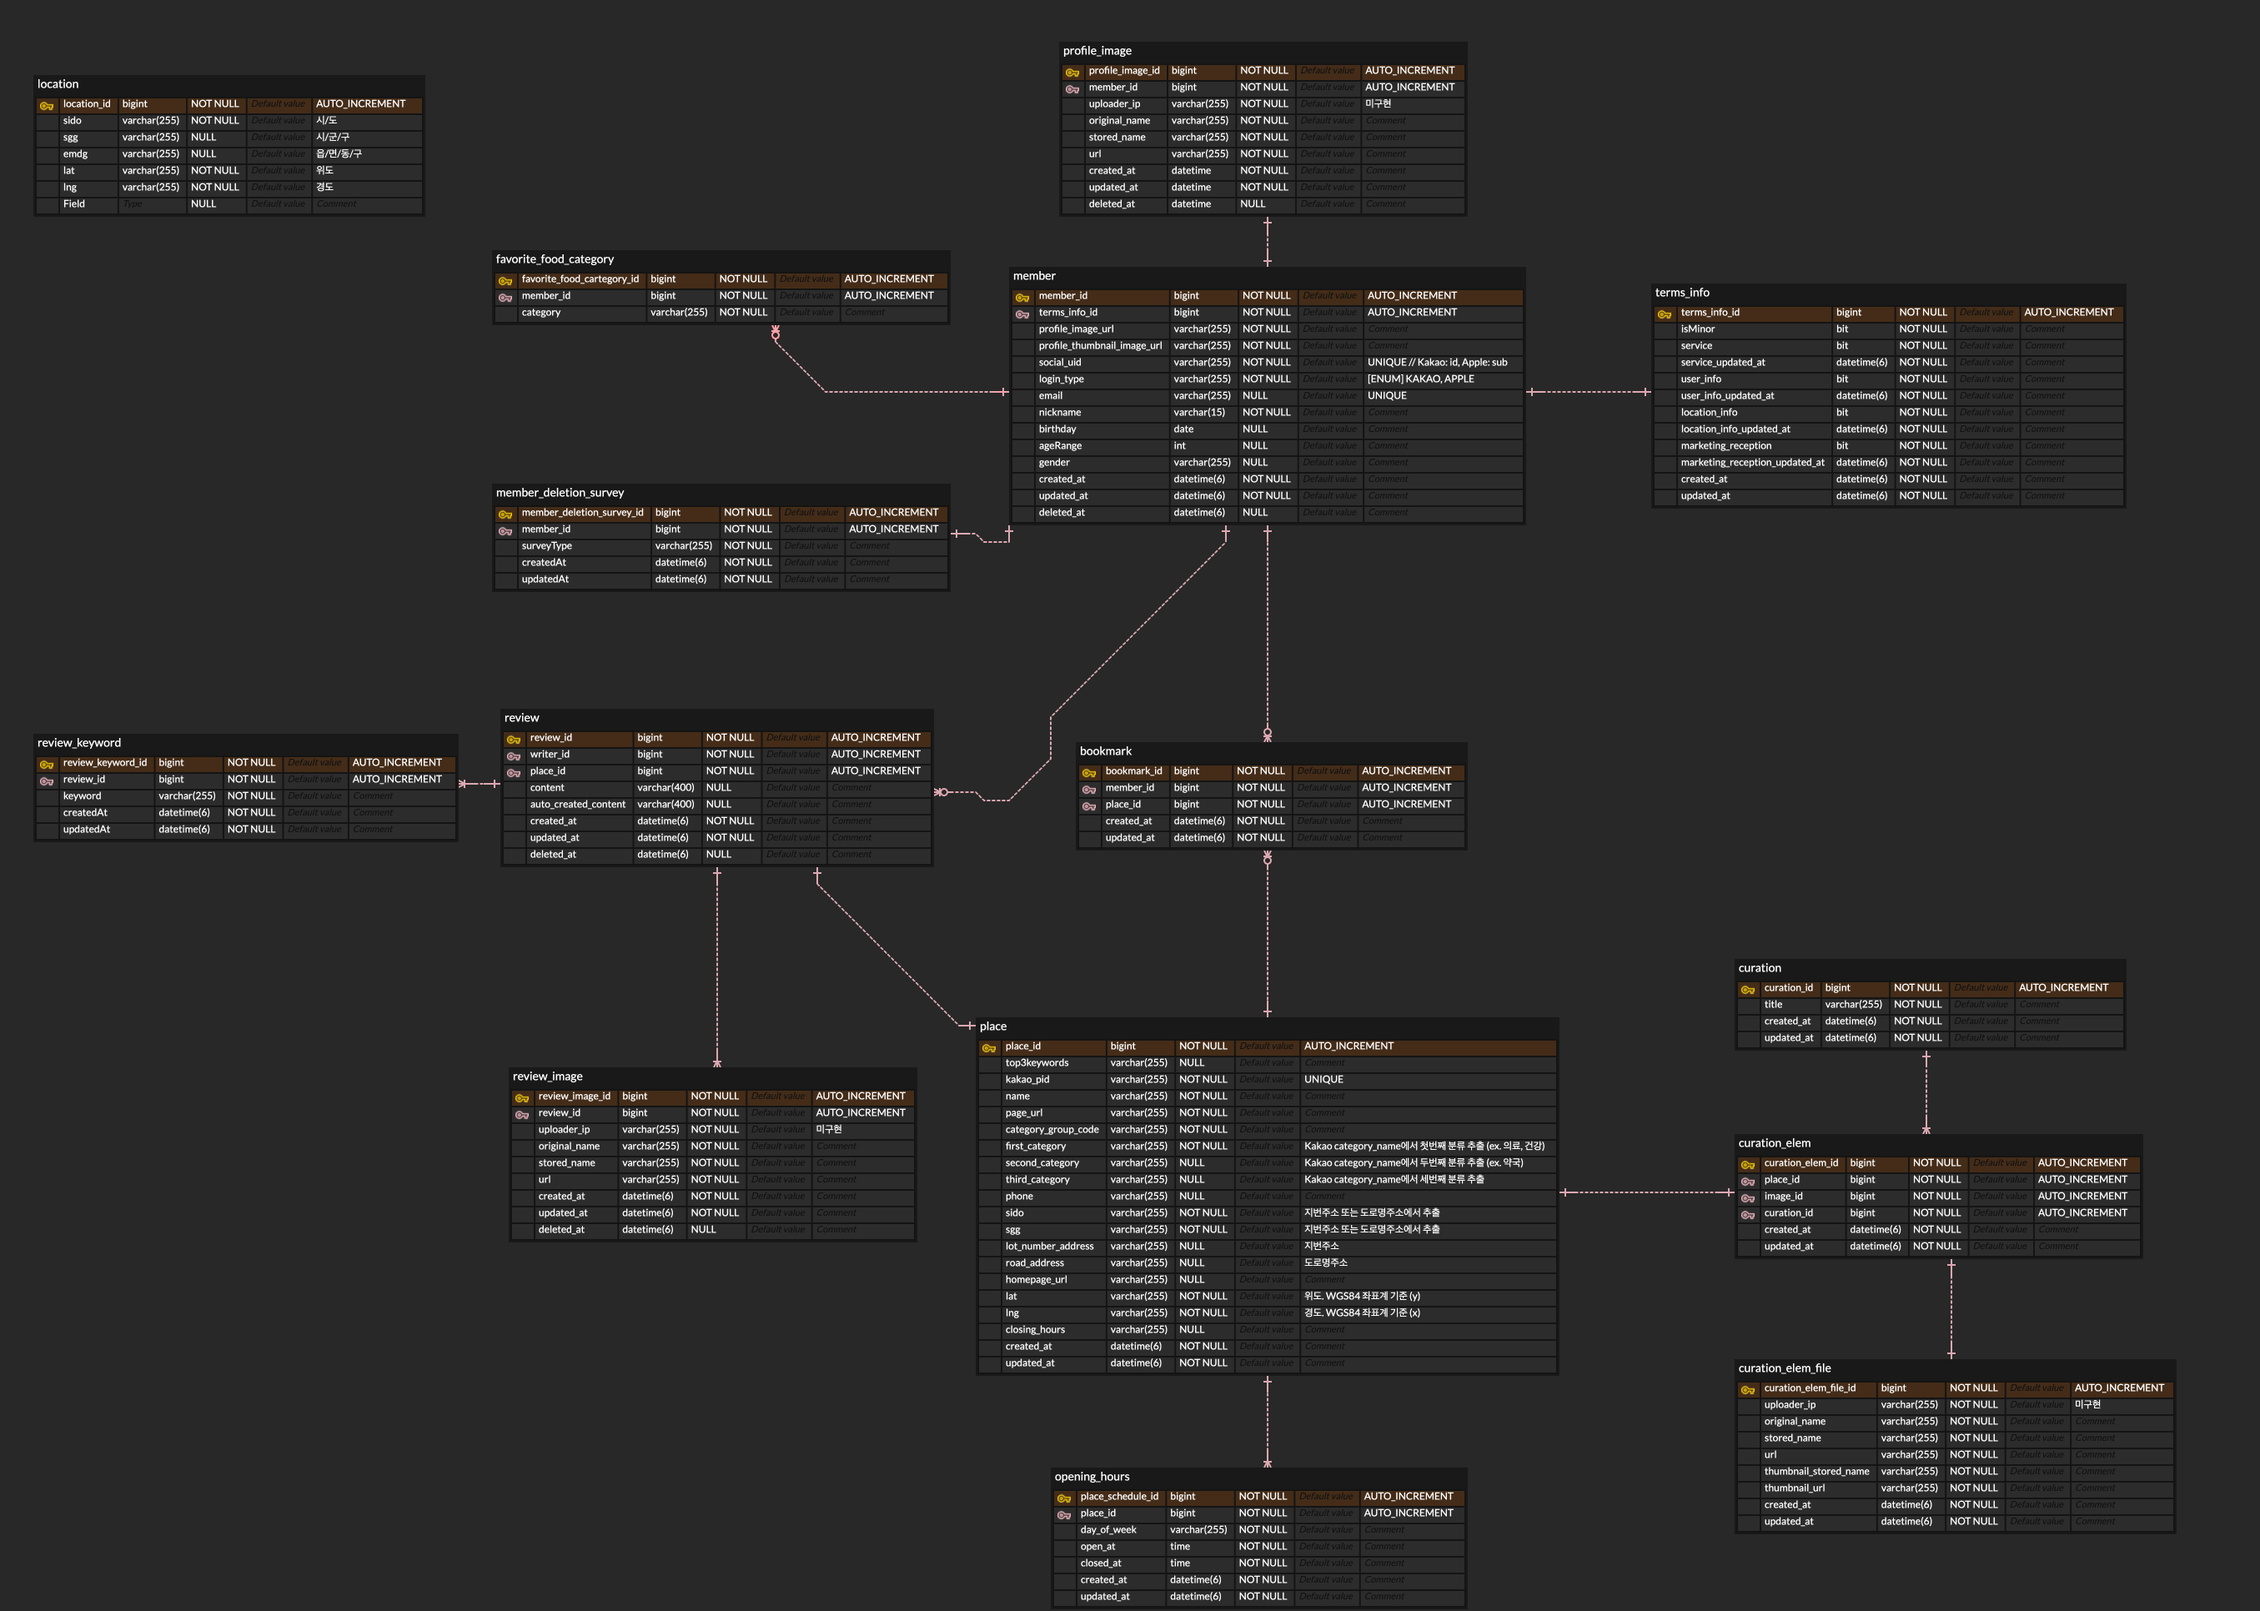
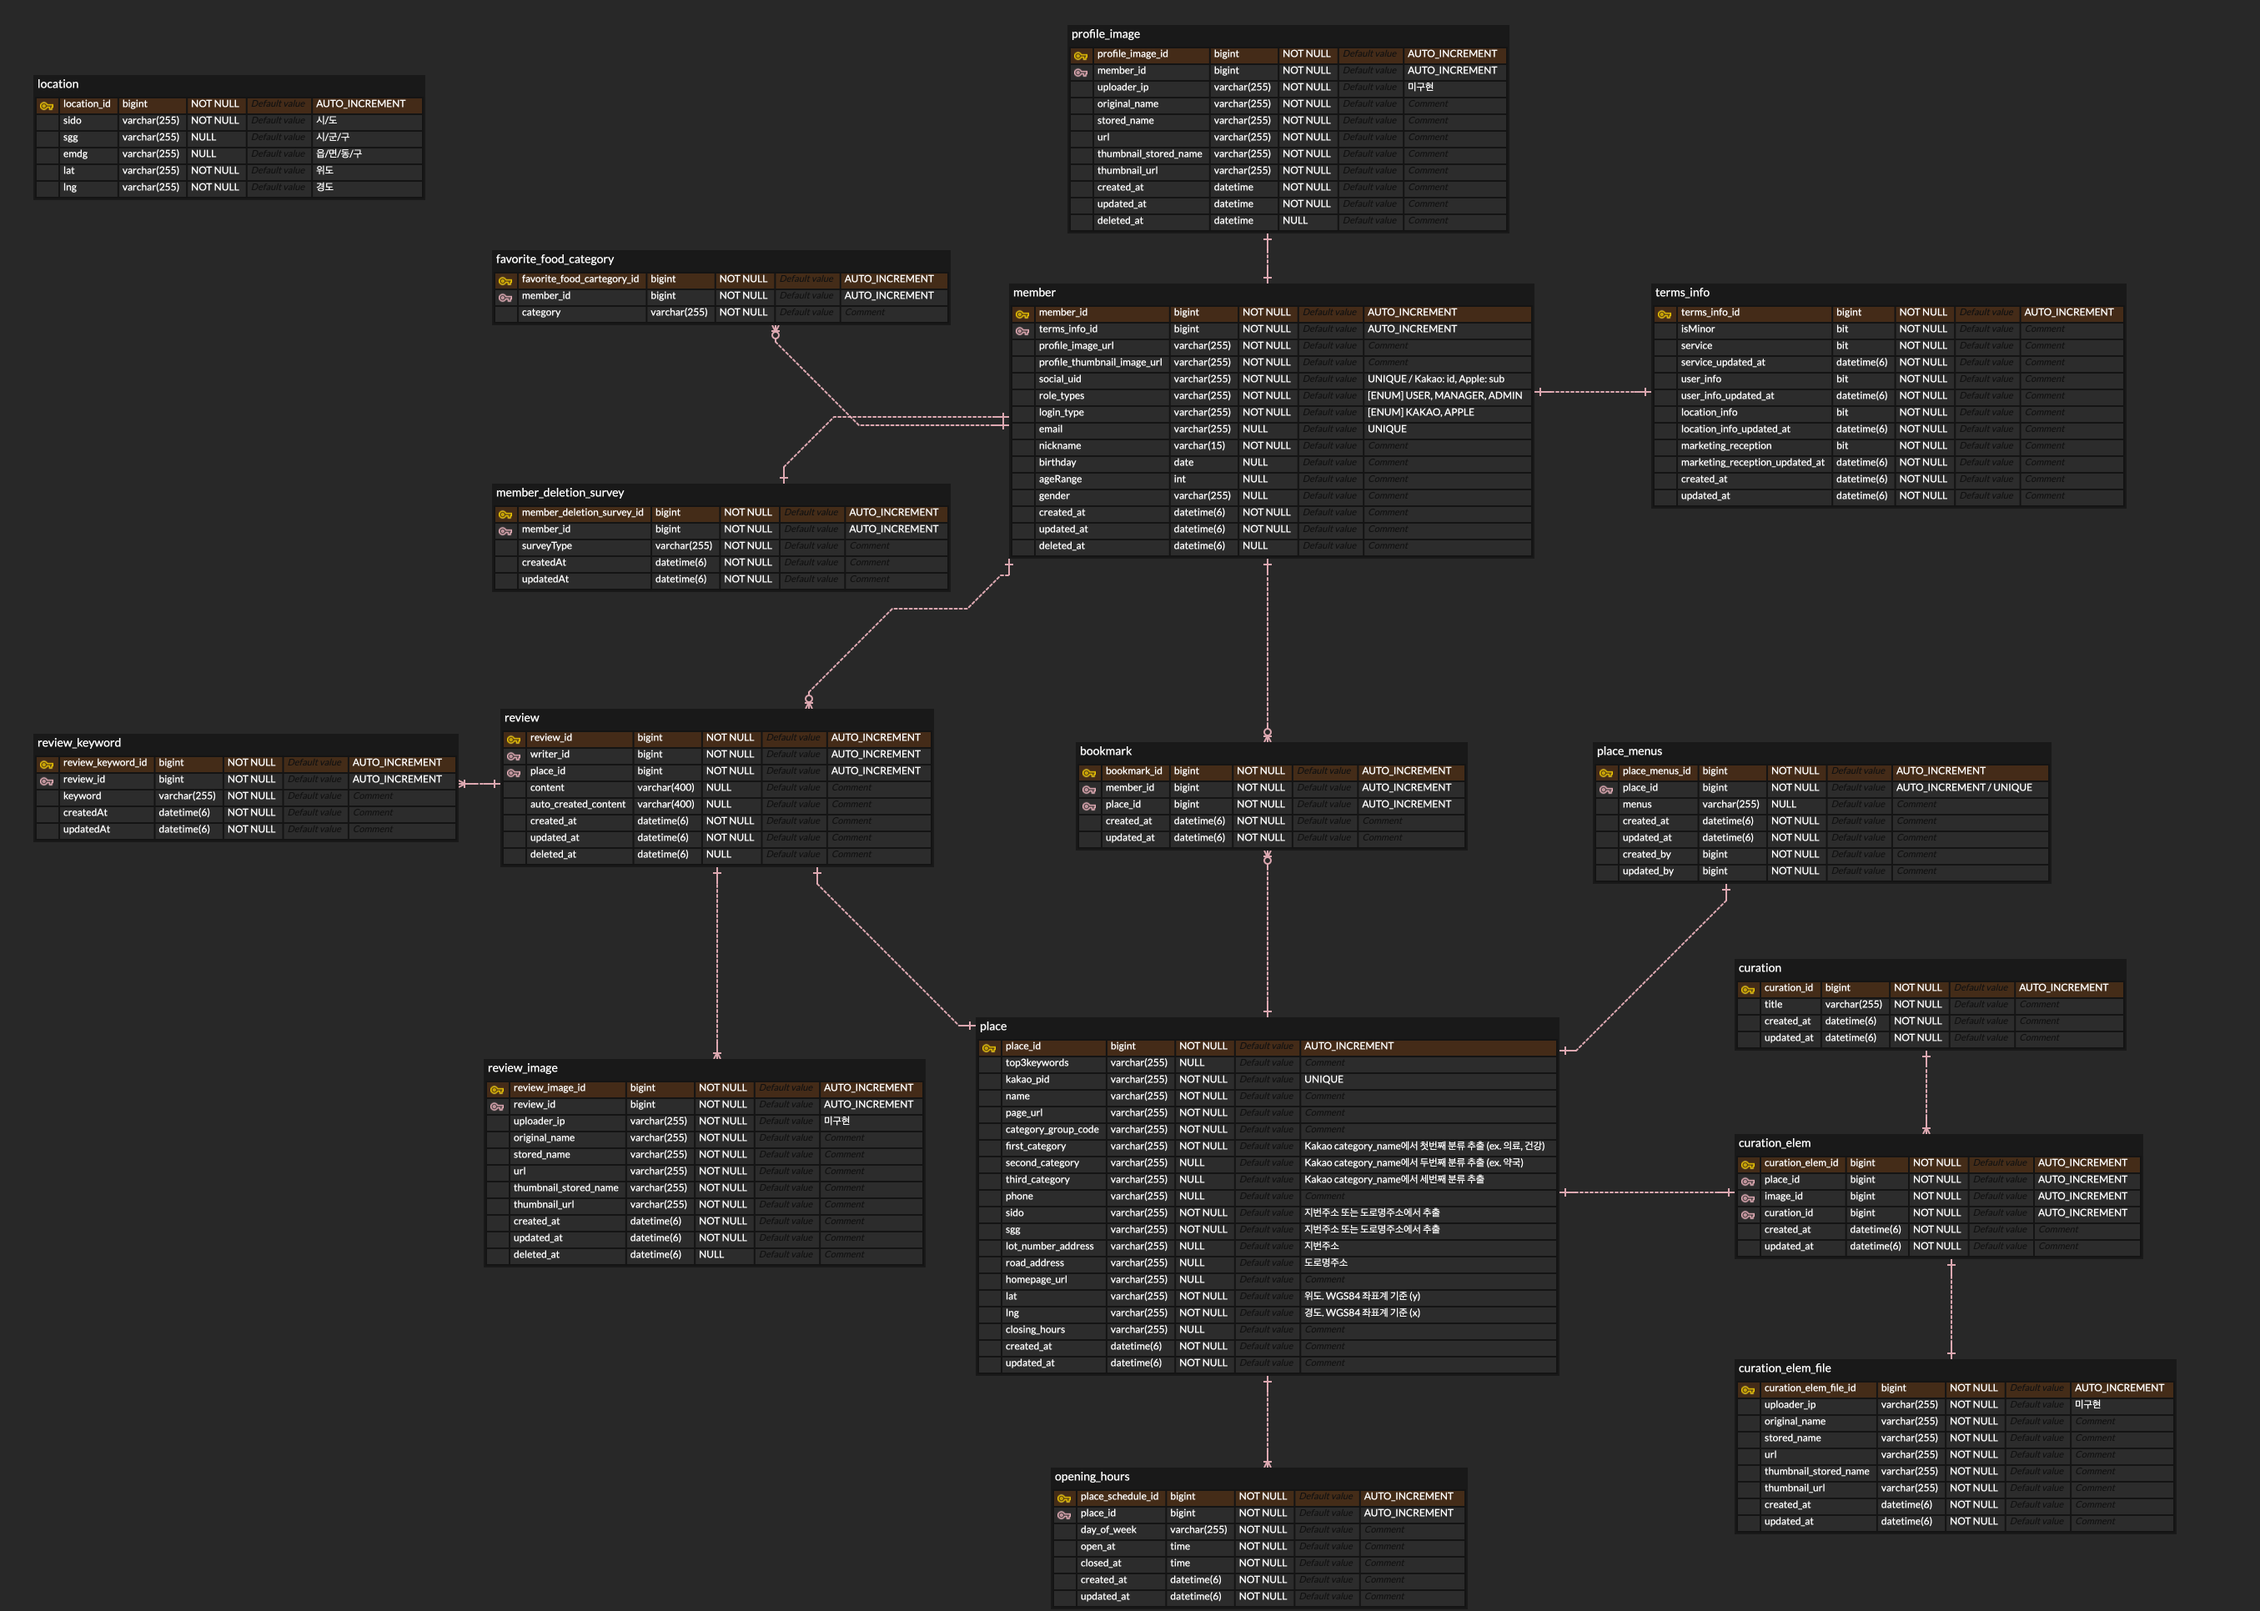
Update ERD - 장소 메뉴 추가, 회원 table에 역할 추가 (#253)
* docs: update erd (35b32c5)

* docs: update erd at README.md (1627e79)

diff --git a/README.md b/README.md
@@ -80,4 +80,4 @@
 
 <br>
 <h2>ER Diagram</h2>
-<img src="https://github.com/Zelusik/backend/blob/develop/docs/eatery-erd.png?raw=true" alt="eatery erd">
+<img src="https://github.com/Zelusik/server-main/assets/60748900/d133ec35-1c18-4ffd-b230-fa563db669a8" alt="eatery erd">
